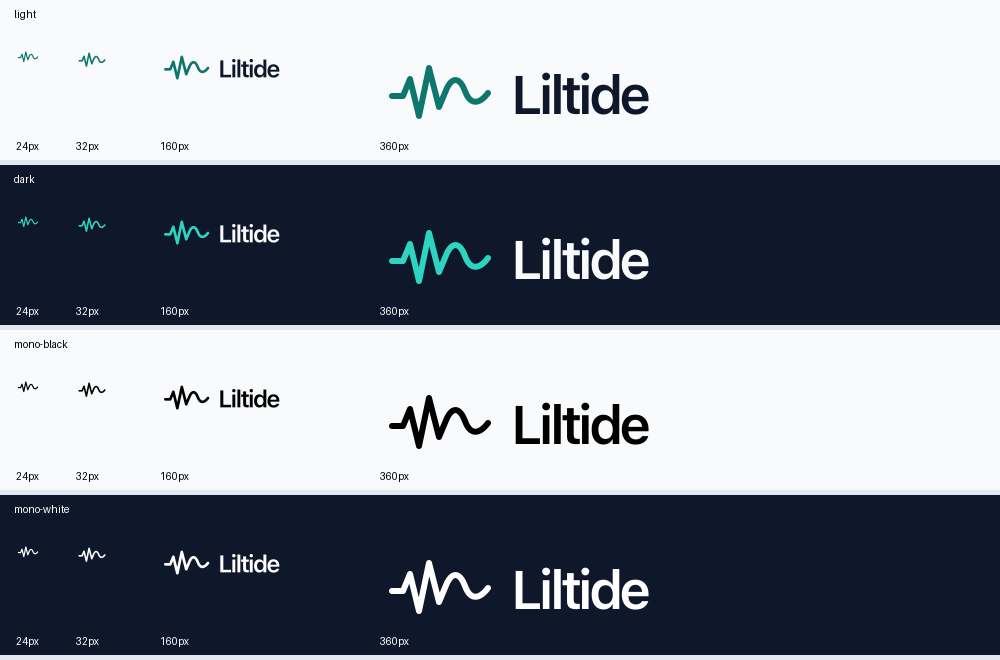
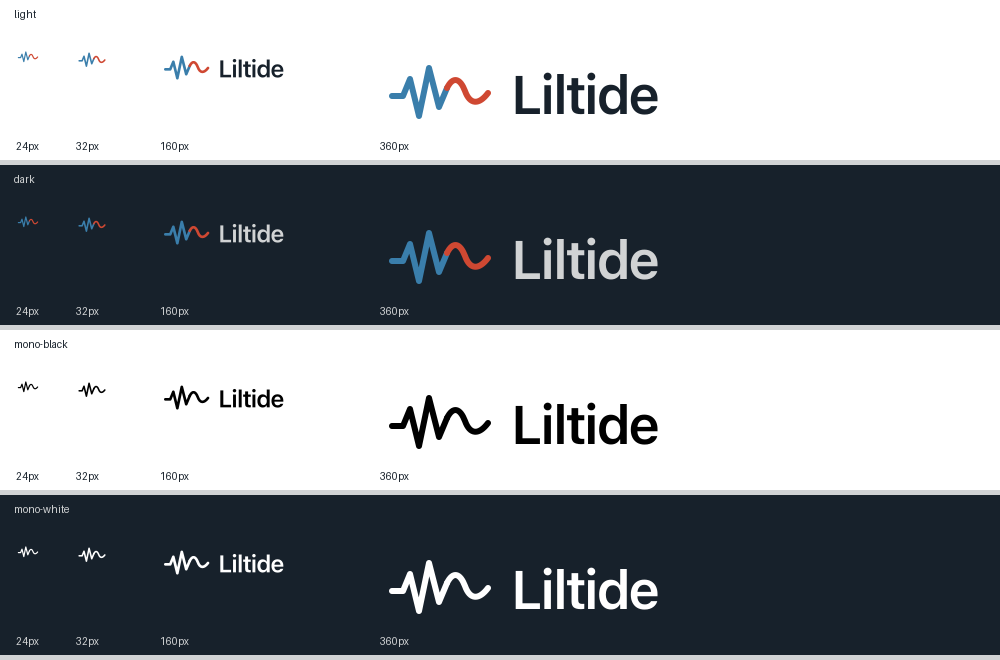
Refresh branding with blue, red, and gray palette

diff --git a/docs/branding.md b/docs/branding.md
@@ -1,6 +1,6 @@
 # Liltide branding
 
-Status: approved direction; assets created for the documentation milestone. Name availability remains unconfirmed.
+Status: user-approved palette revision, 2026-10-29; supersedes the original teal palette. Name availability remains unconfirmed.
 
 ## Identity and voice
 
@@ -16,35 +16,47 @@ Preliminary web searches during planning found no obvious exact-name software co
 
 | Token | Hex | Intended use |
 | --- | --- | --- |
-| Deep teal | `#0F766E` | Accent/text on light surfaces |
-| Bright teal | `#2DD4BF` | Accent/text on dark surfaces |
-| Slate | `#0F172A` | Main text on light; dark background |
-| Light | `#F8FAFC` | Light background; main text on dark |
-| Muted gray | `#64748B` | Secondary text on light only, subject to contrast |
+| Signal blue | `#3a7eab` | Primary identity, speech waveform, large headings, graphic accents on white or dark ink |
+| Translation red | `#cf4832` | Secondary identity, flowing translation wave, small accent markers |
+| Neutral gray | `#d1d3d4` | Neutral surfaces, decorative separators, text on dark ink |
+| Ink (supporting neutral) | `#17212b` | Body text on white/gray and dark-theme background |
+| White (supporting neutral) | `#ffffff` | Light-theme background and monochrome inverse assets |
+
+The three brand colors above are the user's exact selections. Ink and white support readable text and light/dark presentation; they are not replacements for the chosen palette. Machine-readable values are in [colors.json](../assets/brand/colors.json).
 
 Use system sans-serif for prose/UI and system monospace for CLI examples. The SVG wordmark uses a system sans-serif font stack; exact letterforms can vary by installed font. No font files are bundled.
 
-Text must meet WCAG AA contrast: 4.5:1 for normal text and 3:1 for large text; meaningful UI graphics need 3:1 against adjacent colors. Check actual combinations, not colors in isolation. The [validation record](validation.md) lists approved pairs. Bright teal on light and deep teal on slate are not approved text combinations. Use light text rather than muted gray for secondary text on slate unless a new compliant color is introduced.
+Text must meet WCAG AA contrast: 4.5:1 for normal text and 3:1 for large text; meaningful UI graphics need 3:1 against adjacent colors. The [current contrast record](validation.md#brand-refresh--2026-10-29) lists measured pairs. Blue on white is **4.42:1**: approved for large text and graphics, not normal text. Use ink for small text on white or gray, and gray/white for small text on ink. Red on white meets normal text at **4.54:1**, but has little margin; do not reduce opacity. Neither blue nor red is approved for normal text on gray or ink. Blue on gray also falls below 3:1 for meaningful graphics; put a blue icon on a white/ink surface instead. Gray-on-white borders are decorative only; use blue/red/ink when a boundary communicates information.
+
+Red is a brand accent, not an error state by itself. Pair every state with a word or icon; do not imply that the translation language is an error. No new terminal colors are forced because terminal backgrounds vary.
 
 Follow the system theme in the future GUI, with a manual override. Terminal output respects `NO_COLOR`, `TERM=dumb`, and non-interactive output. Never use color as the sole indication of errors, provisional text, recording state, or connection status.
 
 ## Logo assets
 
-The continuous waveform rises and falls, then flows into a smooth wave: speech becoming a continuous stream of captions. It is an original vector mark without third-party icons or embedded images.
+The continuous waveform rises and falls in blue, then flows into a red wave: speech becoming a continuous stream of captions. Both colored variants use the same blue/red symbol; dark mode uses a gray wordmark. It is an original vector mark without third-party icons or embedded images.
 
 | Variant | Symbol | Horizontal wordmark | Surface |
 | --- | --- | --- | --- |
 | Light | [SVG](../assets/brand/liltide-symbol-light.svg) | [SVG](../assets/brand/liltide-wordmark-light.svg) | Light/white |
-| Dark | [SVG](../assets/brand/liltide-symbol-dark.svg) | [SVG](../assets/brand/liltide-wordmark-dark.svg) | Slate/dark |
+| Dark | [SVG](../assets/brand/liltide-symbol-dark.svg) | [SVG](../assets/brand/liltide-wordmark-dark.svg) | Ink/dark |
 | Mono black | [SVG](../assets/brand/liltide-symbol-mono-black.svg) | [SVG](../assets/brand/liltide-wordmark-mono-black.svg) | Light/white |
-| Mono white | [SVG](../assets/brand/liltide-symbol-mono-white.svg) | [SVG](../assets/brand/liltide-wordmark-mono-white.svg) | Slate/black |
+| Mono white | [SVG](../assets/brand/liltide-symbol-mono-white.svg) | [SVG](../assets/brand/liltide-wordmark-mono-white.svg) | Ink/black |
 
 See the [rendered contact sheet](../assets/brand/preview.png) for all variants and tested sizes.
 
-All SVGs have transparent backgrounds, accessible titles/descriptions, and fixed colors. Select the correct variant; a white mark on white will be invisible. Keep aspect ratio and allow clear space of at least one stroke-width around the mark. Minimum intended sizes: symbol 24 px square; wordmark 160 px wide. Use the symbol alone below the wordmark minimum; a 16 px symbol is exploratory and not approved as an application icon.
+## Redesigned components
+
+- [README banner](../assets/brand/liltide-banner.svg): waveform/wordmark, tagline, and caption-line motif; used at the top of the README.
+- [Brand board SVG](../assets/brand/brand-board.svg) and [PNG preview](../assets/brand/brand-board.png): exact palette swatches, light/dark wordmarks, and two caption cards.
+- Caption cards are labeled **Concept — not implemented**, use synthetic text, and demonstrate accessible finalized/provisional labels. They do not represent a shipped GUI or change the current terminal interface.
+
+## Asset usage
+
+Logo symbol and wordmark SVGs have transparent backgrounds, accessible titles/descriptions, and fixed colors. The banner and brand board use explicit background surfaces. Select the correct variant; a white mark on white will be invisible. Keep aspect ratio and allow clear space of at least one stroke-width around the mark. Minimum intended sizes: symbol 24 px square; wordmark 160 px wide. Use the symbol alone below the wordmark minimum; a 16 px symbol is exploratory and not approved as an application icon.
 
 Do not stretch, rotate, add gradients/shadows, or place the logo on low-contrast photographs. Use the monochrome variants for one-color reproduction. MIT applies to these original assets; no third-party brand endorsement is implied.
 
 ## Screenshots and terminal presentation
 
-Use synthetic Polish/English examples with elapsed timestamps. Never capture credentials, private meetings, or personal audio-device names. Until the app exists, label any mockup “Concept — not implemented.” Later screenshots must identify the version and platform and show the actual interface. Keep the original audio experience uninterrupted where routing permits it; do not imply audio capture is active while paused.
+Use synthetic Polish/English examples with elapsed timestamps. Never capture credentials, private meetings, or personal audio-device names. Label every unimplemented interface mockup “Concept — not implemented.” Later screenshots must identify the version and platform and show the actual interface. Keep the original audio experience uninterrupted where routing permits it; do not imply audio capture is active while paused.

diff --git a/docs/validation.md b/docs/validation.md
@@ -13,7 +13,7 @@ Documentation/asset QA passed:
 - Rendered all variants using `rsvg-convert`; visually inspected 24/32 px symbols and 160/360 px wordmarks on light/slate backgrounds. No clipping observed; 24 px symbols and 160 px wordmarks remain readable. [Rendered contact sheet](../assets/brand/preview.png).
 - Reviewed CLI examples, free-only policy, planned/verified distinctions, and roadmap consistency. No application code, cloud resources, drivers, or live API requests were created.
 
-Contrast was calculated using WCAG sRGB linearization and relative luminance (ratios rounded to two decimals):
+Historical original-palette results below are superseded by the 2026-10-29 brand refresh. Contrast was calculated using WCAG sRGB linearization and relative luminance (ratios rounded to two decimals):
 
 | Foreground | Background | Ratio | Normal text decision |
 | --- | --- | --- | --- |
@@ -88,3 +88,26 @@ Real system-audio capture and F0 provider smoke tests must be recorded for Windo
 ## User-reported live translation — 2026-10-28
 
 After Azure key/resource setup guidance, the user reported: “IT works perfectly now.” Record the end-to-end macOS translation PoC as user-confirmed working. No independent live rerun was performed. Session duration, source content, input mode, pause/resume outcomes, timing measurements, and accuracy annotations were not supplied. F0 SKU/configuration has not been inspected by the agent. This report does not establish perfect accuracy, a latency benchmark, failure recovery, or Windows/Linux support.
+
+
+## Brand refresh — 2026-10-29
+
+User-selected colors: blue `#3a7eab`, red `#cf4832`, gray `#d1d3d4`. Supporting neutrals: ink `#17212b`, white `#ffffff`. This palette supersedes the original teal identity. Refreshed all 8 logo variants; added a README banner, palette tokens, and a brand board with explicitly labeled caption concepts. No terminal behavior or shipped GUI changed.
+
+Rendered all SVGs using `rsvg-convert`. Visually inspected the banner and 1100×900 brand board for spacing/clipping and the logo contact sheet at 24/32 px symbols and 160/360 px wordmarks on white/ink backgrounds. All remained readable with no clipping. [Brand board preview](../assets/brand/brand-board.png) and [logo contact sheet](../assets/brand/preview.png).
+
+WCAG sRGB contrast ratios, rounded to two decimals:
+
+| Pair | Ratio | Use |
+| --- | --- | --- |
+| Ink / white | 16.29:1 | Normal text |
+| Gray / ink | 10.85:1 | Normal text |
+| Blue / white | 4.42:1 | Large text/meaningful graphics; not normal text |
+| Red / white | 4.54:1 | Normal text, without opacity reduction |
+| Blue / ink | 3.69:1 | Large text/meaningful graphics; not normal text |
+| Red / ink | 3.59:1 | Large text/meaningful graphics; not normal text |
+| Blue / gray | 2.94:1 | Decorative only |
+| Red / gray | 3.02:1 | Meaningful graphics/large text only |
+| Gray / white | 1.50:1 | Decorative only |
+
+Small text in the delivered banner/board uses ink on white or gray on ink. States use explicit text labels. The gray separators are decorative; meaningful caption boundaries use blue on white/ink. These are asset/document checks, not new application-test or accessibility claims about the future GUI.

diff --git a/CONTEXT.md b/CONTEXT.md
@@ -67,3 +67,9 @@ Documentation and asset QA passed: local links resolved; 8 SVGs parsed and rende
 - 2026-10-28: After Azure key/setup guidance, user reported “IT works perfectly now.” Recorded the live macOS translation path as user-confirmed. No independent cloud run, quantitative measurements, failure testing, or resource-tier inspection followed.
 
 - 2026-10-29: User requested local Git tracking. Initialized repository on `main`; existing author identity is configured. Checked candidate files and ignore rules: credentials, recordings, exports, virtual environment, caches, and build artifacts are excluded. No remote configured or publication performed.
+
+- 2026-10-29: User published the project and requested GitHub metadata updates. Remote: https://github.com/turhancan97/liltide-translator. Set and verified the description and ten topics (Python/CLI, speech recognition/translation, system audio, captions, Polish/English). No source push performed in this task.
+
+- 2026-10-29: User approved replacement brand colors #3a7eab, #cf4832, #d1d3d4. Refreshed light/dark and monochrome logos, README banner, palette tokens, and clearly labeled light/dark caption concepts. Rendered SVGs and visually checked large/small variants; documented contrast restrictions. Prior teal palette is superseded. No app behavior changes or remote push.
+
+- 2026-10-29: User approved committing and pushing the branding refresh to the configured GitHub remote. Reviewed branding/docs/assets only; local link, SVG, contrast, render, and whitespace checks passed.

diff --git a/AGENTS.md b/AGENTS.md
@@ -15,7 +15,7 @@ Liltide is a personal-use-first, open-source Python CLI for Polish-to-English ca
 
 Keep Python 3.11+, a `src` package layout, Typer/Rich, SoundCard, NumPy with a dedicated resampler, and the Azure Speech SDK as the baseline. Keep capture, session coordination, providers, presentation, and exports separate. Permit a combined transcription/translation provider.
 
-Use the Liltide name, approved teal palette, system typography, accessible status labels, and factual writing. The package and command identifier is `liltide`, subject to eventual availability checks.
+Use the Liltide name, approved blue `#3a7eab`, red `#cf4832`, and gray `#d1d3d4` palette, system typography, accessible status labels, and factual writing. The package and command identifier is `liltide`, subject to eventual availability checks.
 
 ## Authorization and scope
 

diff --git a/README.md b/README.md
@@ -1,6 +1,6 @@
 # Liltide
 
-![Liltide wordmark](assets/brand/liltide-wordmark-light.svg)
+![Liltide — live captions across languages](assets/brand/liltide-banner.svg)
 
 **Live captions across languages.**
 
